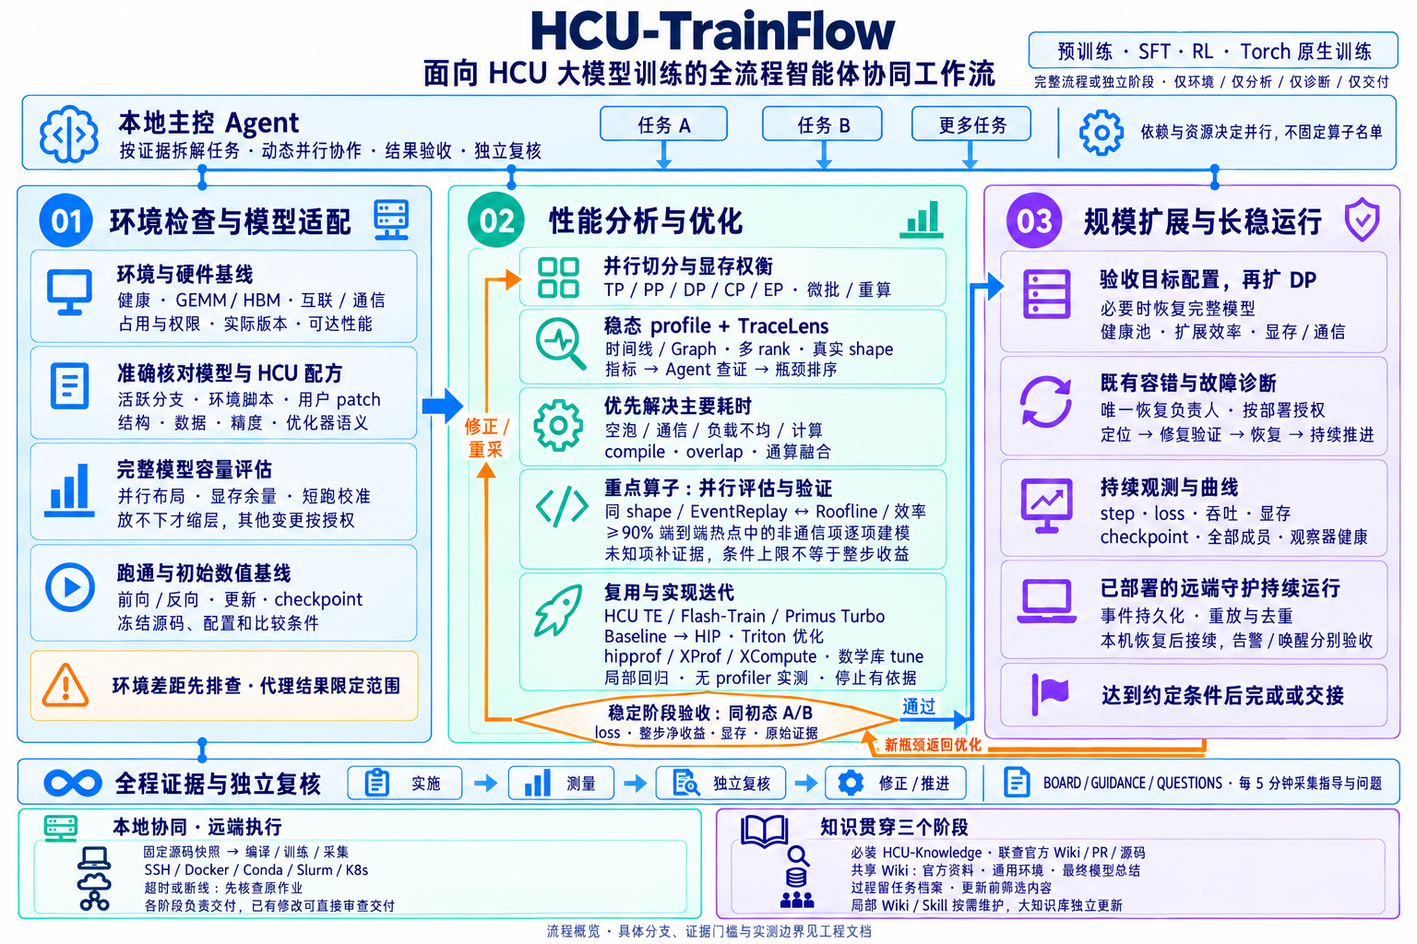
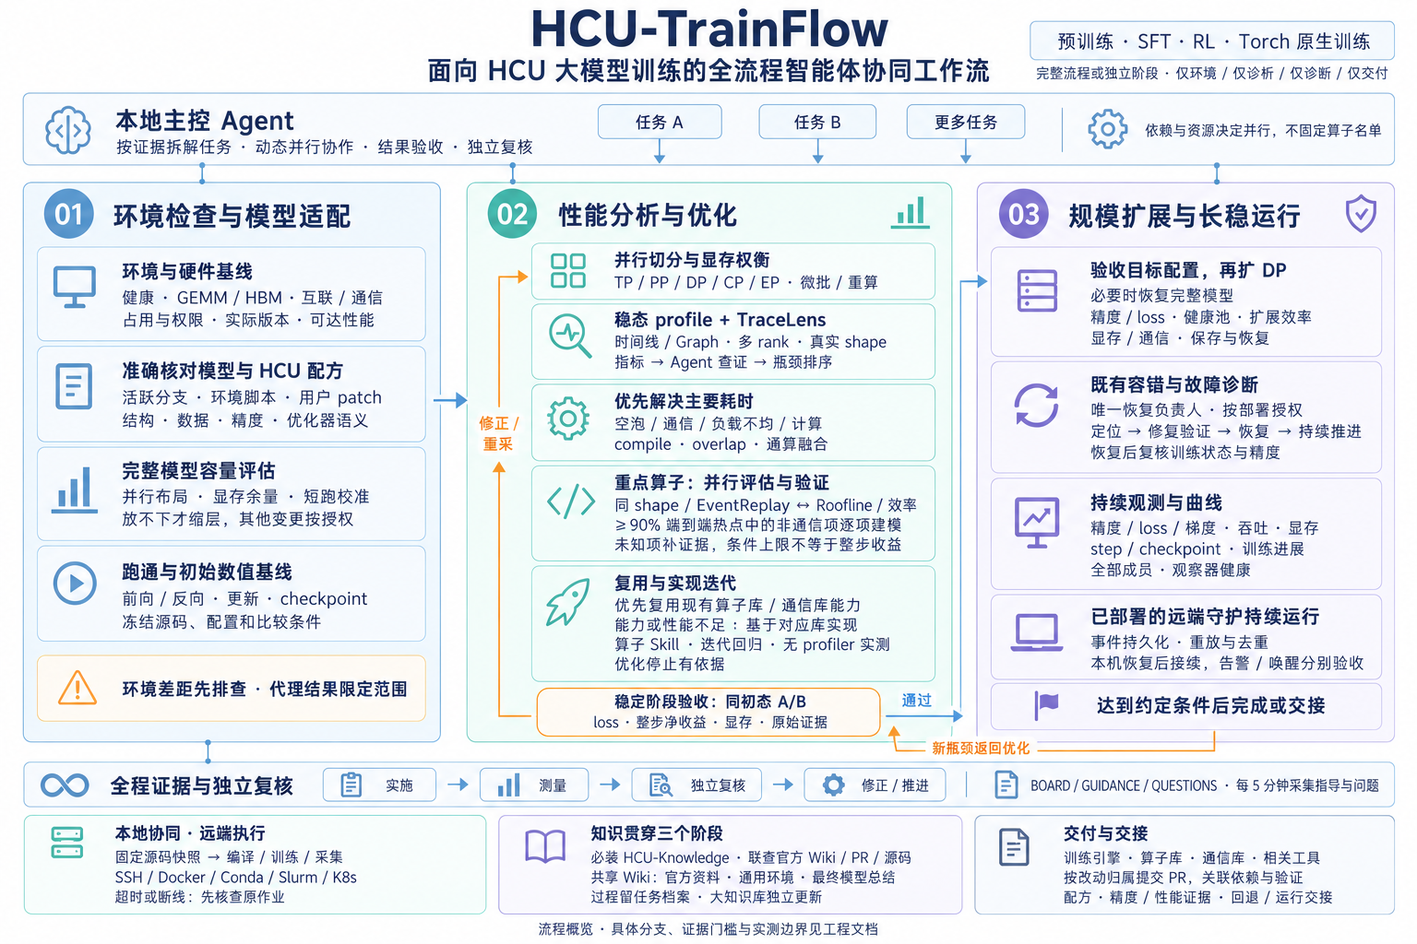
docs: refine workflow overview and clarify accuracy and PR ownership

diff --git a/README.md b/README.md
@@ -78,7 +78,7 @@ An agentic workflow for end-to-end large-model training adaptation, optimization
 - **并行切分与显存取舍**：先评估 TP/PP/DP/CP/EP、微批、累积、重算、状态切分及 overlap，在显存峰值、必要余量、通信和实际吞吐之间选择配置。调参保持训练语义可比，GPU_MAX_HW_QUEUES 等按当前 runtime 与实测核验。
 - **按主要瓶颈推进**：采集稳态端到端 profile，每个实际非单例并行组至少覆盖两个代表 rank，结合 TraceLens 分析空泡、通信、负载不均、计算和显存。谁占主要时间就先处理谁；通信达到单测预期仍大量暴露时，再考虑 overlap、调度或通算融合。
 - **重点算子持续迭代**：对累计 ≥90% 端到端热点中的非通信算子，按实际贡献排序，评估瓶颈、可达上限、当前效率和剩余空间。同 shape 独立实测与上限建模可以并行，用于区分实现差距和模型内资源竞争；保留空泡、重叠和未归因时间的正确口径。
-- **复用与深入实现**：优先复用 HCU TE、Flash-Train、Primus Turbo 等能力，对齐融合粒度和数值契约；缺 HIP 基线时先调用 baseline Skill，再进入 HIP 优化，已有 Triton 实现调用 Triton 优化 Skill。融合后仍有显著空间就继续迭代，瓶颈时使用实际性能工具；数学库有性能缺口时提取原生日志中的完整 bench 命令用于 tune。通信按需联动 RCCL、rocSHMEM、DeepEP、UCCL、UltraEP、MoonEP 等。
+- **复用与实现迭代**：优先复用现有 HCU 算子库、通信库的能力；能力或性能不足时，基于对应库补充实现并借助算子 Skill 持续优化。对齐接口与数值契约，以实际性能分析、局部回归和整步收益验证结果；具体工程分工见[库联动指南](skills/hcu-train-analyze-and-optimize/references/hcu-library-integration.md)。
 - **稳定阶段验 loss**：每轮做局部正确性、多形状和无 profiler 性能回归，集成后重测整步净收益；稳定阶段从同一冻结初态与配方比较 loss、性能和显存。达到目标、接近可达上限、无稳定收益或受阻，都须给出证据与停止依据。
 
 同一阶段包含 [Torch 原生训练专项](skills/hcu-train-analyze-and-optimize/references/torch-native-training.md) 和 [通信优化专项](skills/hcu-train-analyze-and-optimize/references/communication-optimization.md)，覆盖输入流水、autograd、compile/断图/重编译、DDP/FSDP，以及 bucket/chunk、同步、overlap、通算融合和资源竞争。机制选择联查官方教程与 PR、AMD Primus、MindSpeed 系列、LoongForge 和 HCU 底层源码。详见[热点排序与算子迭代](skills/hcu-train-analyze-and-optimize/references/operator-ceiling-iteration.md)。
@@ -87,15 +87,17 @@ An agentic workflow for end-to-end large-model training adaptation, optimization
 
 ### 3. 规模扩展与长稳运行
 
-- **逐级扩容**：完整模型目标必要时先恢复并验收完整配置；获准的代理任务可以扩选定代理配置的 DP，并保留完整模型验证缺口。以 Cluster Manager 为主筛机、交叉检查疑似节点并维护健康池，逐级核对吞吐、扩展效率、通信、显存和训练语义；新瓶颈返回优化。
-- **验证恢复链路**：接入现场既有容错并明确唯一恢复负责人，按部署授权诊断卡住、core dump、OOM、泄露等问题。验证旧进程处理、checkpoint 完整性、重新拉起及训练状态恢复，观察 step 是否真实持续推进。
-- **长时观察与接续**：持续记录 loss、吞吐、显存、全部必需成员、checkpoint 和恢复状态，生成曲线并检查观察器自身健康。本机离线时由已部署并验收的远端守护和既有容错继续工作；恢复后核对现场、重放事件并接续 Agent，告警和自动唤醒分别验收。
+- **逐级扩容**：完整模型目标必要时先恢复并验收完整配置；获准的代理任务可以扩选定代理配置的 DP，并保留完整模型验证缺口。以 Cluster Manager 为主筛机、交叉检查疑似节点并维护健康池，逐级核对精度/loss、吞吐、扩展效率、通信、显存和训练语义；新瓶颈返回优化。
+- **验证恢复链路**：接入现场既有容错并明确唯一恢复负责人，按部署授权诊断卡住、core dump、OOM、泄露等问题。验证旧进程处理、checkpoint 完整性、重新拉起及训练状态恢复，复核恢复后的精度与 loss，观察 step 是否真实持续推进。
+- **长时观察与接续**：持续记录精度与 loss/梯度异常、吞吐、显存、全部必需成员、checkpoint 和恢复状态，生成曲线并检查观察器自身健康。本机离线时由已部署并验收的远端守护和既有容错继续工作；恢复后核对现场、重放事件并接续 Agent，告警和自动唤醒分别验收。
 
 ### 贯穿全程的协同与交付
 
 **模型精度诊断**贯穿适配、优化和长稳：有 NV 环境进行同初态、同样本的分层对照；没有 NV 则用可信基线、独立参考和 HCU 自查。按需结合 HCU Probe 定位前向、梯度、更新或通信的首处分歧，局部修复回归后在稳定里程碑验 loss。详见[精度诊断方法](docs/practices/model-accuracy-diagnosis.md)和[精度分支图](docs/workflow-map.md#35-模型精度诊断跨阶段复用)。
 
 本地主控按依赖和收益拆解任务，独立方向并行，共享资源测量与耦合修改协调执行；代码以固定快照同步远端，超时或断线先核查原作业。HCU-Knowledge、HCU-TrainFlow-Wiki、PR 与源码查证贯穿三个阶段，看板持续展示技术结论并采集指导。各阶段按范围交付代码、配方、验证和回退方法；完整任务在执行基线上完成约定验证后再整合目标主仓，精选通用经验和最终里程碑进入共享 Wiki。
+
+**改动按工程归属交付**：训练引擎、算子库、通信库及相关工具分别向对应仓提交 PR，关联跨仓依赖、集成版本和验证结果；同时交接启动配方、精度与性能证据、回退方案及运行责任。
 
 阶段入口分别为 `$hcu-train-check-and-adapt`（环境检查与模型适配）、`$hcu-train-analyze-and-optimize`（性能分析与优化）、`$hcu-train-scale-and-stability`（规模扩展与长稳运行）；统一委托仍使用 `$hcu-trainflow`。也可仅委托接手已有修改、代码审查或提 PR，直接执行[交付规范](docs/change-delivery.md)，无需重新开展训练阶段。发生异常时按 [故障诊断指南](skills/hcu-train-scale-and-stability/references/diagnosis.md) 分流，结合 HCU 知识库、线上 PR 与实际源码查证，修复后回到对应阶段验收。
 

diff --git a/docs/assets/workflow-overview.prompt.md b/docs/assets/workflow-overview.prompt.md
@@ -2,13 +2,13 @@
 
 - 内容基准：HCU-TrainFlow 当前主线；所有流程图均不写工程版本号。
 - 输出：[workflow-overview.png](workflow-overview.png)。首页使用摘要图，精确分支与验收门槛以[可编辑流程图](../workflow-map.md)和[能力边界](../capabilities.md)为准。
-- 生成方式：内置 `imagegen`，以此前的总览图为编辑输入，沿用白底、蓝绿紫配色和分阶段科技信息图风格。
+- 生成方式：内置 `imagegen`，以此前的总览图为编辑输入，采用白底、低饱和蓝灰 / 青灰 / 淡紫灰、细线边框与箭头，保留分阶段科技信息图结构及文字对比度。
 - 维护：图面不印版本号；流程、状态或边界变更时一起复核 README、工程介绍和细图。重新生成后检查文字、箭头及验证声明。
 
 ## 本次完整提示词
 
 ```text
-Edit the attached HCU-TrainFlow README overview infographic to reflect the current workflow. The existing image is the edit target and visual reference. Preserve the white background, refined flat technology style, dark navy Chinese typography, pale blue/teal/lavender rounded panels, small blue/teal/purple line icons, and restrained orange feedback arrows. High resolution wide landscape 3:2 composition, fully readable accurate Chinese. This is a technical workflow, not promotional art. Re-layout text cleanly as needed. No false dashboards or extra features. All panels inside safe margins. Never obscure text with arrows. Replace all wording with the following exact content, organized hierarchically. Do not add a project version number anywhere in the diagram.
+Edit the attached HCU-TrainFlow README overview infographic to reflect the current workflow. The existing image is the edit target and layout reference. Refine the design substantially: pure white canvas, nearly white panels, very pale desaturated blue-gray / teal-gray / lavender-gray accents, dark slate Chinese typography, fine hairline borders and arrows, small restrained thin-stroke icons. Make lines approximately HALF as thick as in the reference; remove the heavy saturated outlines and large vivid icons. The orange feedback accents must be muted warm gray-ochre, subtle but legible. Keep text dark and clearly readable: soften panel colors and lines, not the text. Use spacious margins, consistent subtle rounded corners, precise typographic hierarchy, clean technical editorial design. No gradients, glow, heavy shadows, thick arrows, saturated electric blue or violet. High resolution wide landscape 3:2 composition, ideally 2304 x 1536 or higher, with fully readable accurate Chinese. This is a technical workflow, not promotional art. Re-layout text cleanly as needed. No false dashboards or extra features. All panels inside safe margins. Never obscure text with arrows. Replace all wording with the following exact content, organized hierarchically. Do not add a project version number anywhere in the diagram.
 
 TITLE: HCU-TrainFlow
 SUBTITLE: 面向 HCU 大模型训练的全流程智能体协同工作流
@@ -52,10 +52,10 @@ card 4 重点算子：并行评估与验证
 ≥90% 端到端热点中的非通信项逐项建模
 未知项补证据，条件上限不等于整步收益
 card 5 复用与实现迭代
-HCU TE / Flash-Train / Primus Turbo
-Baseline → HIP · Triton 优化
-hipprof / XProf / XCompute · 数学库 tune
-局部回归 · 无 profiler 实测 · 停止有依据
+优先复用现有算子库 / 通信库能力
+能力或性能不足：基于对应库实现
+算子 Skill · 迭代回归 · 无 profiler 实测
+优化停止有依据
 
 Orange outlined stage gate below center cards:
 稳定阶段验收：同初态 A/B
@@ -66,13 +66,16 @@ Blue pass arrow labeled 通过 from gate to RIGHT FIRST CARD (not directly long 
 RIGHT 03 title 规模扩展与长稳运行
 card 1 验收目标配置，再扩 DP
 必要时恢复完整模型
-健康池 · 扩展效率 · 显存 / 通信
+精度 / loss · 健康池 · 扩展效率
+显存 / 通信 · 保存与恢复
 card 2 既有容错与故障诊断
 唯一恢复负责人 · 按部署授权
 定位 → 修复验证 → 恢复 → 持续推进
+恢复后复核训练状态与精度
 card 3 持续观测与曲线
-step · loss · 吞吐 · 显存
-checkpoint · 全部成员 · 观察器健康
+精度 / loss / 梯度 · 吞吐 · 显存
+step / checkpoint · 训练进展
+全部成员 · 观察器健康
 card 4 已部署的远端守护持续运行
 事件持久化 · 重放与去重
 本机恢复后接续，告警 / 唤醒分别验收
@@ -83,18 +86,21 @@ Full-width feedback band:
 实施 → 测量 → 独立复核 → 修正 / 推进
 BOARD / GUIDANCE / QUESTIONS · 每 5 分钟采集指导与问题
 
-Two bottom support panels:
+Three bottom support panels of similar height, with concise exact text:
 本地协同 · 远端执行
 固定源码快照 → 编译 / 训练 / 采集
 SSH / Docker / Conda / Slurm / K8s
 超时或断线：先核查原作业
-各阶段负责交付，已有修改可直接审查交付
 
 知识贯穿三个阶段
 必装 HCU-Knowledge · 联查官方 Wiki / PR / 源码
 共享 Wiki：官方资料 · 通用环境 · 最终模型总结
-过程留任务档案 · 更新前筛选内容
-局部 Wiki / Skill 按需维护，大知识库独立更新
+过程留任务档案 · 大知识库独立更新
+
+交付与交接
+训练引擎 · 算子库 · 通信库 · 相关工具
+按改动归属提交 PR，关联依赖与验证
+配方 · 精度 / 性能证据 · 回退 / 运行交接
 
 Footer:
 流程概览 · 具体分支、证据门槛与实测边界见工程文档

diff --git a/docs/workflow-map.md b/docs/workflow-map.md
@@ -23,14 +23,14 @@ flowchart TD
     Q --> QG{"达到约定目标且数值通过？"}
     QG -->|未达到| OR["定位问题、修正或回退<br/>无新证据 / 达到预算边界时请专家介入"]
     OR --> O
-    QG -->|通过| S["③ 规模扩展与长稳运行<br/>验收目标配置 → 扩 DP 域<br/>完整目标必要时恢复结构；代理保留缺口 · 图 6"]
+    QG -->|通过| S["③ 规模扩展与长稳运行<br/>验收目标配置 → 扩 DP 域<br/>精度 / loss、扩展效率与恢复质量 · 图 6"]
     S --> SG{"环境、质量与扩容验收通过？"}
     SG -->|失败| SR["按原因回到环境、适配或优化<br/>修复后重新验收受影响证据"]
     SR --> C
     SG -->|通过| T["长训：持续监测、既有容错与诊断<br/>hcu-train-scale-and-stability · 详见图 6"]
     T --> TG{"达到任务约定的完成 / 交接条件？"}
     TG -->|否| T
-    TG -->|是| Z["完成复核与交付<br/>代码 / 配方 / 证据 / 经验 / 运行交接"]
+    TG -->|是| Z["完成复核与交付交接<br/>训练引擎 / 算子库 / 通信库 / 工具：按归属提交 PR<br/>关联依赖、配方、精度与性能证据、回退和运行责任"]
     PART --> Z
     DELIVER --> Z
     LOOP["所有阶段共用<br/>实施 → 测量 → 独立复核 → 修正 / 推进<br/>详见图 4"] -.-> C
@@ -153,9 +153,9 @@ flowchart TD
     CALL --> MODEL["工作线 A：逐项建模 / TraceLens Roofline<br/>FLOPs、分层流量、必要延迟<br/>匹配硬件与可达参考；未知项继续补证据"]
     CALL --> ISO["工作线 B：同条件独立实测 / EventReplay<br/>复用实际输入与实现，核对数值和 dispatch<br/>比对模型内耗时，定位实现或资源干扰"]
     CALL --> F["对照 NV 融合粒度与数值契约<br/>接口、前后向、保存值、累加和 cast"]
-    F --> R{"当前 HCU TE / Flash-Train / Primus Turbo 已支持？"}
+    F --> R{"现有 HCU 算子库 / 通信库能力可复用？"}
     R -->|是| USE["优先复用并验证实际 dispatch<br/>融合后继续评估效率与剩余空间"]
-    R -->|否| NEW["按已裁决优先级补实现<br/>新通用训练 HIP 算子归 Flash-Train<br/>TE / Primus Turbo 自有能力归对应 HCU 仓"]
+    R -->|否| NEW["按已裁决优先级基于对应库补实现<br/>复用现有接口与基础能力<br/>改动按责任归属提交 PR"]
     MODEL --> EFF["汇合本项证据，互相校正假设<br/>当前效率、实现空间与整步可兑现收益<br/>各项就绪即可推进，无全体算子屏障"]
     ISO --> EFF
     USE --> EFF
@@ -168,7 +168,7 @@ flowchart TD
     NEW --> TASK
     COMM -->|系统调参 / overlap 问题| SYS
     COMM -->|已满足目标| KEEP
-    COMM -->|需要通算融合时| SH["核对 rocSHMEM / DeepEP / UCCL 等当前能力<br/>明确同步、生命周期和正确性"]
+    COMM -->|需要通算融合时| SH["先核对现有通信库 / 算子库能力<br/>复用或基于对应库实现<br/>明确同步、生命周期和正确性"]
     SH --> TASK
 ```
 
@@ -443,7 +443,7 @@ flowchart TD
     FULL --> POOL["Cluster Manager 为主筛机<br/>适用时结合 Primus Safe<br/>动态维护健康节点池"]
     PROXY --> POOL
     POOL --> DP["逐级扩 DP 域<br/>明确强 / 弱扩展与有效全局 batch 策略"]
-    DP --> SCALE["每级扩容验收<br/>吞吐效率 / 通信尾部 / 显存 / checkpoint<br/>当前环境 + 阶段质量 + scale 证据"]
+    DP --> SCALE["每级扩容验收<br/>精度 / loss、吞吐效率、通信尾部、显存<br/>checkpoint / 恢复质量与当前阶段证据"]
     SCALE --> SG{"当前级验收通过？"}
     SG -->|否| FIXS["按问题返回环境 / 适配 / 优化<br/>修复后重新验收当前上下文"]
     FIXS --> SCOPE
@@ -454,12 +454,12 @@ flowchart TD
     JOB --> LOG["现场归一化器<br/>全局进展 JSONL：attempt / step / 时间<br/>loss / grad / 显存 / 恢复状态等"]
     LOG --> WATCH["远端 watcher 持久采集<br/>游标、真实推进时钟、incident 与 outbox"]
     JOB --> MEMBERS["观测全部必需 launcher 成员<br/>进度日志源 / 身份 / 新鲜度 / 退出回执<br/>不把一个 rank 的进展当作全组健康"]
-    WATCH --> HEALTH{"进展和指标符合预期？"}
+    WATCH --> HEALTH{"精度 / loss、进展和指标符合预期？"}
     MEMBERS --> HEALTH
     HEALTH -->|是| CURVE["持续记录与分 attempt 曲线<br/>step / loss / grad / 显存 / 事件<br/>吞吐与 checkpoint 结合原始证据"]
     CURVE --> END{"达到约定的完成 / 交接条件？"}
     END -->|否| JOB
-    END -->|是| COMPLETE["完成报告、独立复核和运行交接"]
+    END -->|是| COMPLETE["完成报告、独立复核和运行交接<br/>训练引擎与相关库 / 工具改动按归属提交 PR"]
     HEALTH -->|异常| OUT[("各观察源的持久异常事件<br/>停滞 / 失联 / 恢复超时 / 非有限值 / 性能下降<br/>独立 Store 与 peer，按实际接口汇接")]
     OUT -->|已配置通知消费者| ALERT["站点通知接口<br/>优先既有容错的飞书告警通道<br/>实际发送与送达另行验收"]
     JOB -->|故障由既有规则处理| FT["现场既有容错负责人<br/>按授权隔离 / 重启 / 恢复"]

diff --git a/docs/workflows.md b/docs/workflows.md
@@ -44,7 +44,7 @@
 
 ## 规模扩展与长稳运行
 
-资源不足时默认仅缩 layer 做适配或筛机；用户明确授权时可按[缩减模型契约](proxy-contract.md)缩减指定维度，保留结构覆盖和结论边界。完整模型目标在扩规模前恢复完整配置；若本轮明确验证缩减模型，则按该配置扩 DP 并保留完整模型缺口。在能够容纳选定配置的模型并行布局上先跑通并复核，再逐级扩 DP 域并接入单一恢复负责人。每一级重新验收节点池、吞吐效率、通信、显存与保存恢复。扩 DP 时明确固定有效全局 batch 还是获准改变训练配方，并据此调整累积/学习率等，不能把弱扩展与强扩展结果混比。节点池随故障和重新验收变化。监测 loss、吞吐、显存、checkpoint、step/token 进展及恢复超时；独立监测 watcher 的心跳。容错动作权限在部署具体任务时确定。
+资源不足时默认仅缩 layer 做适配或筛机；用户明确授权时可按[缩减模型契约](proxy-contract.md)缩减指定维度，保留结构覆盖和结论边界。完整模型目标在扩规模前恢复完整配置；若本轮明确验证缩减模型，则按该配置扩 DP 并保留完整模型缺口。在能够容纳选定配置的模型并行布局上先跑通并复核，再逐级扩 DP 域并接入单一恢复负责人。每一级重新验收节点池、精度 / loss、吞吐效率、通信、显存与保存恢复。扩 DP 时明确固定有效全局 batch 还是获准改变训练配方，并据此调整累积/学习率等，不能把弱扩展与强扩展结果混比。节点池随故障和重新验收变化。持续监测精度相关的 loss / 梯度、吞吐、显存、checkpoint、step/token 进展及恢复超时，恢复后复核训练状态与精度；独立监测 watcher 的心跳。容错动作权限在部署具体任务时确定。
 
 故障按第一异常分层：环境/网络、调度/进程组、数据、Python/C++、设备 kernel、保存恢复。先采现场再重现和选择工具，错误或性能停滞时适时给人类专家最小证据包。
 
@@ -54,4 +54,4 @@
 
 按 [改动审查与交付](change-delivery.md) 处理用户 patch、源/目标分支差异、上游等价改动、受影响验证、提交和 PR/CI 验收。可以从统一入口单独委托这部分；不要求新建训练 TaskSpec，也不重跑无关训练阶段。正在进行的完整任务仍按其约定验收后交付。
 
-改动归属训练引擎、TE、Flash-Train、编译/运行时或容错工程相应责任边界。PR 描述问题与最终行为、适用条件、验证和回退，遵循该仓规范。外部 Cookbook 按其要求输出最佳实践。本仓 Wiki 只保存官方资料、可跨项目复用的环境经验，以及模型最终优化里程碑总结和关键数据，见 [知识架构](knowledge-architecture.md)；不提交凭据与完整任务档案。
+改动按训练引擎、算子库、通信库、编译/运行时或容错工具的责任边界，分别向对应仓提交 PR。跨仓 PR 关联依赖、集成版本与提交顺序；描述问题与最终行为、适用条件、精度和性能验证及回退，遵循各仓规范。交接启动配方、运行责任与当前 PR 状态。外部 Cookbook 按其要求输出最佳实践。本仓 Wiki 只保存官方资料、可跨项目复用的环境经验，以及模型最终优化里程碑总结和关键数据，见 [知识架构](knowledge-architecture.md)；不提交凭据与完整任务档案。

diff --git a/progress.md b/progress.md
@@ -363,3 +363,11 @@ Implemented and locally tested occupancy admission, SSH hop contracts, dimension
 - 自查质量/阶段报告、训练日志、监控、资源与安装边界；沿用原运行门槛。新增方法不意味着 Probe 自动安装执行或全模型/后端实测通过，保留局部回归和阶段 loss 的节奏。
 - 本地全量回归：1243 passed / 4 skipped；489 页知识与 25 来源、60 资源页/79 可达页均无错误；64 份文档的 421 处本地链接/锚点有效；17 张 Mermaid 渲染通过。demo 与 collaboration-demo 合成场景完成，不冒充 HCU 实验。
 - 本机 editable 包 0.6.3 与六个 Skill 已同步；替换备份经安装器验证后清理。准备提交 main、核对远端 CI 后发布 annotated v0.6.3，结果以 Git 远端回执确认。不刷新大知识库、不启动现场训练。
+
+## 2026-10-12：总览图轻量化与说明同步
+
+- 更新首页位图及完整生成提示词，简化库列表，明确规模/长稳精度检查与训练引擎等改动的 PR 交付；README、介绍、工作流和详细图同步。
+- 知识验证 489 页/25 来源无错误；阅读资源 60 页/79 可达页通过；64 份 Markdown 的 423 处本地链接/锚点有效；17 张 Mermaid 渲染成功。人工核对新图文字与阶段箭头。
+- 本轮为图文调整，不改执行代码、不启动训练、不刷新知识库，不新增 tag；同步本机安装后提交推送 main。
+
+- 本机 editable 包 0.6.3、六个 Skill 和资源绑定同步完成，独立 `--check` 返回 current；本地差异检查通过，远端 main 基线未变化。

diff --git a/task_plan.md b/task_plan.md
@@ -338,3 +338,10 @@ No automatic big knowledge-base update. No new public release. No artificial Age
 - [x] 同步本机安装，准备 0.6.3 元数据与发布范围；提交、推送和 annotated 标签按远端回执确认。
 
 不启动现场训练、不刷新 HCU 大知识库；按需工具的登记和方法验证不冒充硬件实测。
+
+## 2026-10-12：总览图与交付表述精简
+
+- [x] 总览概括算子/通信库复用及补实现原则，详细操作规则继续由库联动指南承载。
+- [x] 扩容、恢复与长稳观测明确精度/loss；交付明确训练引擎及相关库/工具的 PR 归属和跨仓依赖。
+- [x] 使用内置 imagegen 重绘白底、细线和低饱和总览图，同步 README、工程介绍、工作流与可编辑流程图。
+- [x] 知识、阅读入口、文档链接与 Mermaid 渲染检查通过；本机安装同步及 Git 发布结果见收尾记录。本轮不新增版本标签。
